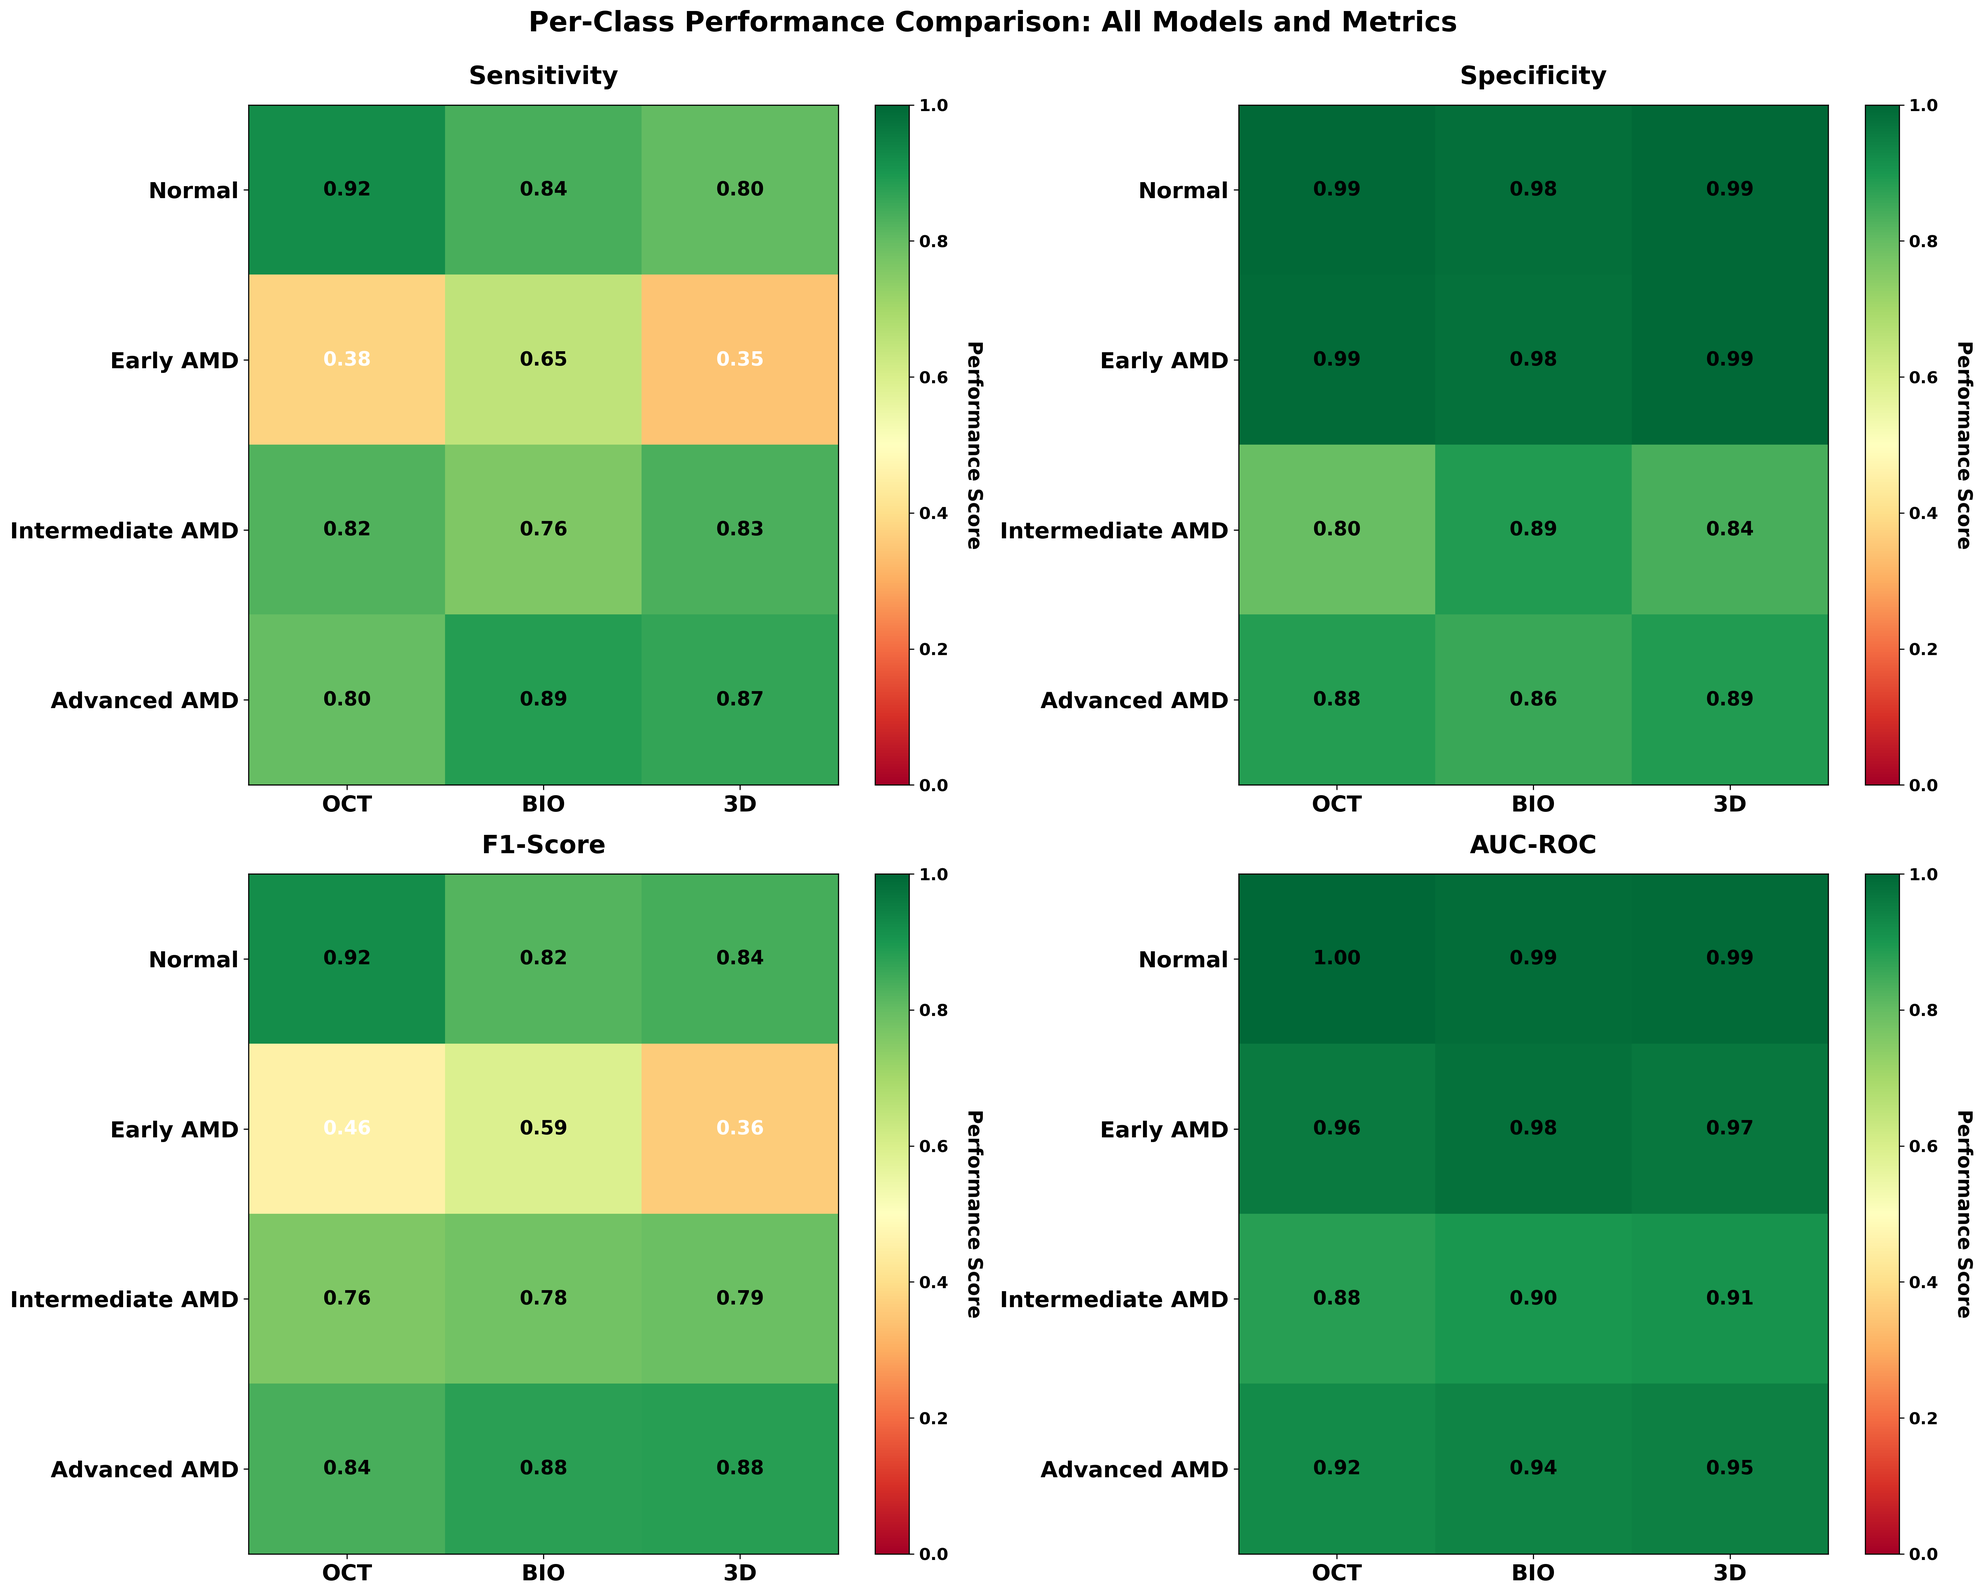
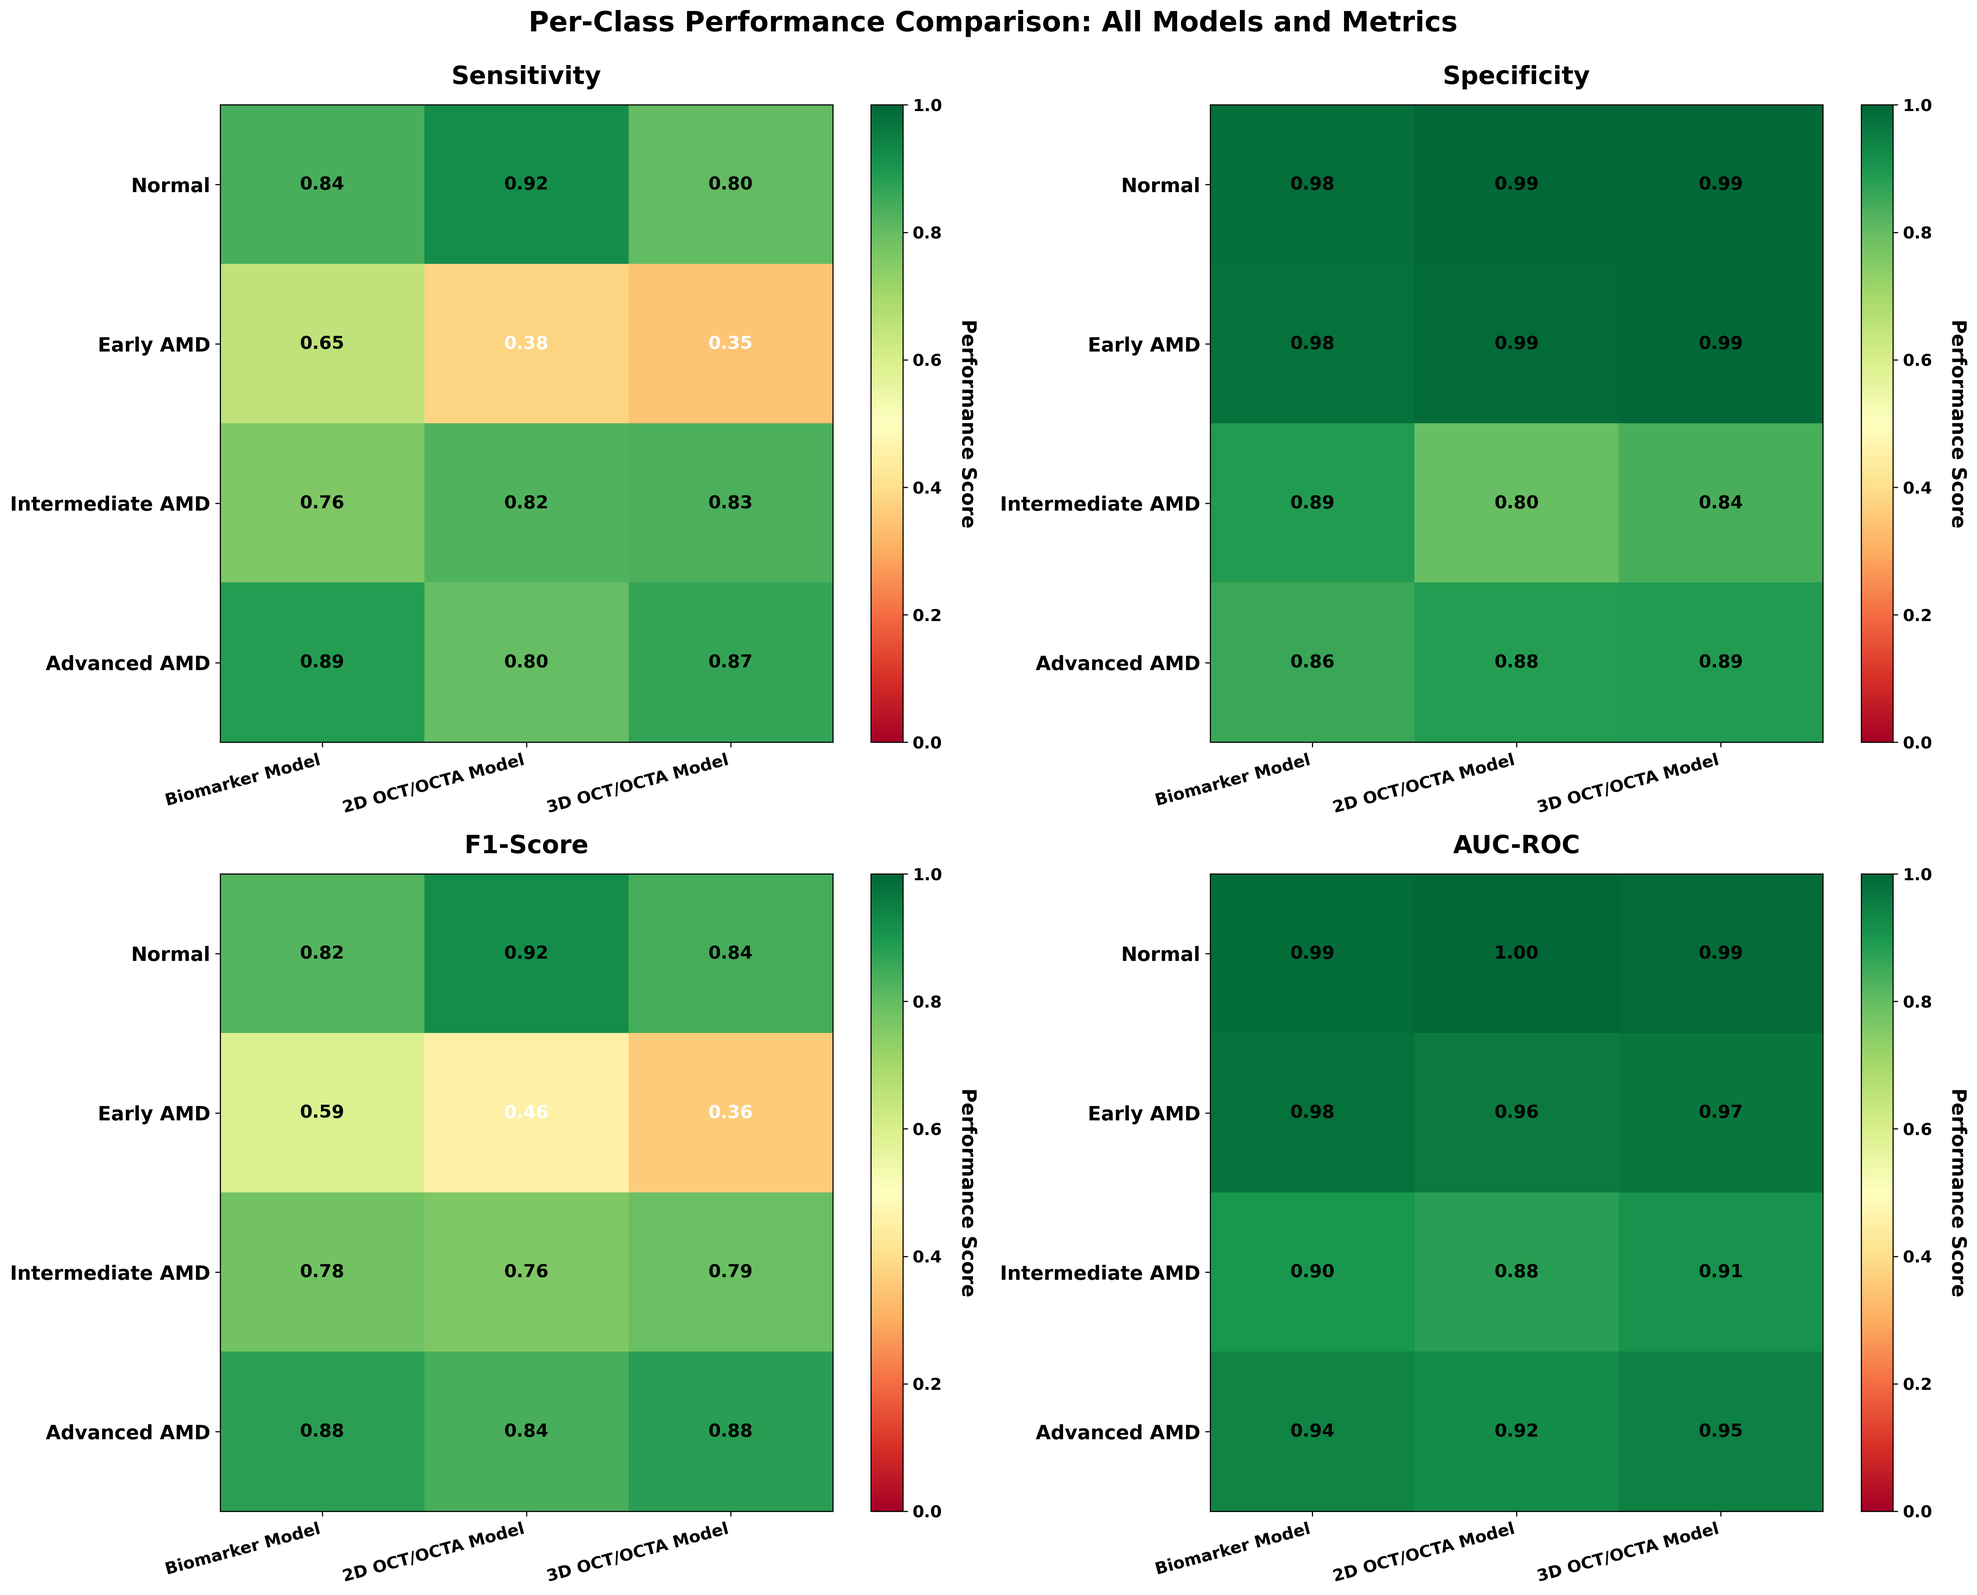
feat: Update analysis results and visualizations for improved clarity and consistency

diff --git a/enhanced_visualizations_improved.py b/enhanced_visualizations_improved.py
@@ -21,6 +21,13 @@ class EnhancedThreeModelVisualizer:
         self.class_names = ['Normal', 'Early AMD', 'Intermediate AMD', 'Advanced AMD']
         self.metrics = ['sensitivity', 'specificity', 'f1_score', 'auc_roc']
         self.metric_names = ['Sensitivity', 'Specificity', 'F1-Score', 'AUC-ROC']
+        # Model order: BIO -> OCT -> 3D with display names
+        self.model_order = ['bio', 'oct', '3d']
+        self.model_display_names = {
+            'bio': 'Biomarker Model',
+            'oct': '2D OCT/OCTA Model',
+            '3d': '3D OCT/OCTA Model'
+        }
         self.model_colors = {'oct': '#1f77b4', 'bio': '#ff7f0e', '3d': '#2ca02c'}
         
         # Set up matplotlib for better quality
@@ -41,10 +48,11 @@ class EnhancedThreeModelVisualizer:
         with open(results_file, 'r') as f:
             self.results = json.load(f)
         
-        self.models = list(self.results.keys())
+        # Use fixed model order
+        self.models = [m for m in self.model_order if m in self.results]
         self.output_dir = latest_dir
         
-        print(f"✅ Loaded results for models: {[m.upper() for m in self.models]}")
+        print(f"✅ Loaded results for models: {[self.model_display_names.get(m, m.upper()) for m in self.models]}")
         print(f"📁 Output directory: {self.output_dir}\n")
     
     def format_value(self, mean, std=None):
@@ -96,7 +104,7 @@ class EnhancedThreeModelVisualizer:
         for idx, (metric, title) in enumerate(zip(self.metrics, self.metric_names)):
             ax = axes[idx // 2, idx % 2]
             
-            # Collect data
+            # Collect data in model order
             model_names = []
             means = []
             stds = []
@@ -104,7 +112,7 @@ class EnhancedThreeModelVisualizer:
             
             for model in self.models:
                 if model in self.results and metric in self.results[model] and 'Overall' in self.results[model][metric]:
-                    model_names.append(model.upper())
+                    model_names.append(self.model_display_names.get(model, model.upper()))
                     stats_data = self.results[model][metric]['Overall']
                     means.append(stats_data['mean'])
                     stds.append(stats_data['std'])
@@ -119,7 +127,7 @@ class EnhancedThreeModelVisualizer:
                 ax.set_title(f'{title}', fontsize=18, fontweight='bold', pad=15)
                 ax.set_ylabel(f'{title} Score', fontsize=16, fontweight='bold')
                 ax.set_xticks(x_pos)
-                ax.set_xticklabels(model_names, fontsize=16, fontweight='bold')
+                ax.set_xticklabels(model_names, fontsize=14, fontweight='bold', rotation=0)
                 ax.tick_params(axis='y', labelsize=14)
                 
                 # Add value labels on bars with 2 significant digits (NO BACKGROUND BOX)
@@ -198,11 +206,12 @@ class EnhancedThreeModelVisualizer:
             # Create heatmap with better spacing
             im = ax.imshow(data_matrix, cmap='RdYlGn', aspect='auto', vmin=0, vmax=1)
             
-            # Set ticks and labels with larger fonts
+            # Set ticks and labels with larger fonts using proper model names
             ax.set_xticks(range(len(self.models)))
-            ax.set_xticklabels([m.upper() for m in self.models], fontweight='bold', fontsize=16)
+            ax.set_xticklabels([self.model_display_names.get(m, m.upper()) for m in self.models], 
+                               fontweight='bold', fontsize=12, rotation=15, ha='right')
             ax.set_yticks(range(len(self.class_names)))
-            ax.set_yticklabels(self.class_names, fontsize=16, fontweight='bold')
+            ax.set_yticklabels(self.class_names, fontsize=14, fontweight='bold')
             ax.set_title(f'{metric_name}', fontsize=18, fontweight='bold', pad=15)
             
             # Add text annotations with 2 significant digits
@@ -213,7 +222,7 @@ class EnhancedThreeModelVisualizer:
                         value_text = f"{data_matrix[i][j]:.2f}"
                         ax.text(j, i, value_text,
                                ha="center", va="center", color=text_color, 
-                               fontsize=14, fontweight='bold')
+                               fontsize=13, fontweight='bold')
             
             # Add colorbar with larger font
             cbar = plt.colorbar(im, ax=ax)
@@ -241,9 +250,9 @@ class EnhancedThreeModelVisualizer:
             for model in self.models:
                 if metric in self.results[model] and 'Overall' in self.results[model][metric]:
                     stats_data = self.results[model][metric]['Overall']
-                    row[f'{model.upper()}'] = self.format_value(stats_data['mean'], stats_data['std'])
+                    row[self.model_display_names.get(model, model.upper())] = self.format_value(stats_data['mean'], stats_data['std'])
                 else:
-                    row[f'{model.upper()}'] = 'N/A'
+                    row[self.model_display_names.get(model, model.upper())] = 'N/A'
             table_data.append(row)
         
         df_overall = pd.DataFrame(table_data)
@@ -271,22 +280,22 @@ class EnhancedThreeModelVisualizer:
                     if (metric in self.results[model] and 
                         class_name in self.results[model][metric]):
                         stats_data = self.results[model][metric][class_name]
-                        row[f'{model.upper()}'] = self.format_value(stats_data['mean'], stats_data['std'])
+                        row[self.model_display_names.get(model, model.upper())] = self.format_value(stats_data['mean'], stats_data['std'])
                     else:
-                        row[f'{model.upper()}'] = 'N/A'
+                        row[self.model_display_names.get(model, model.upper())] = 'N/A'
                 class_data.append(row)
             
             df_class = pd.DataFrame(class_data)
             print(df_class.to_string(index=False))
             
-            # Track for comprehensive file
+            # Track for comprehensive file - use ordered model display names
             for _, row in df_class.iterrows():
                 all_class_data.append({
                     'Class': class_name,
                     'Metric': row['Metric'],
-                    'OCT': row.get('OCT', 'N/A'),
-                    'BIO': row.get('BIO', 'N/A'),
-                    '3D': row.get('3D', 'N/A')
+                    'Biomarker Model': row.get('Biomarker Model', 'N/A'),
+                    '2D OCT/OCTA Model': row.get('2D OCT/OCTA Model', 'N/A'),
+                    '3D OCT/OCTA Model': row.get('3D OCT/OCTA Model', 'N/A')
                 })
         
         # Save comprehensive class data
@@ -311,7 +320,7 @@ class EnhancedThreeModelVisualizer:
                     
                     sig_data.append({
                         'Metric': metric_name,
-                        'Comparison': f'{model1.upper()} vs {model2.upper()}',
+                        'Comparison': f'{self.model_display_names.get(model1, model1.upper())} vs {self.model_display_names.get(model2, model2.upper())}',
                         'P-Value': f'{p_value:.3f}',
                         'Significance': significance,
                         'Difference': f'{diff:.2f}'

diff --git a/create_analysis_index.py b/create_analysis_index.py
@@ -15,7 +15,7 @@ def create_index():
 
 **Analysis Date**: 2025-11-21  
 **Method**: 5-Fold Cross-Validation  
-**Models**: OCT, BIO, 3D  
+**Models**: Biomarker Model, 2D OCT/OCTA Model, 3D OCT/OCTA Model  
 **Format**: 2 Significant Digits  
 **Directory**: `analysis_results/20251121_161006/`
 
@@ -54,7 +54,7 @@ def create_index():
 ### Enhanced Figures (Recommended)
 | File | Description | Use Case |
 |------|-------------|----------|
-| `enhanced_overall_comparison.png` | 4 metrics with p-values (large fonts, 20×16) | Presentations, publications |
+| `enhanced_overall_comparison.png` | 4 metrics with p-values (large fonts, 20×28) | Presentations, publications |
 | `enhanced_perclass_heatmaps.png` | Heatmaps for all metrics and classes | Per-class analysis |
 
 ### Original Figures (Reference)
@@ -72,8 +72,8 @@ def create_index():
 ### Enhanced Tables (Recommended)
 | File | Description | Format |
 |------|-------------|--------|
-| `enhanced_overall_summary.csv` | Overall metrics (2 sig digits) | Metric, OCT, BIO, 3D |
-| `enhanced_perclass_summary.csv` | Per-class metrics (2 sig digits) | Class, Metric, OCT, BIO, 3D |
+| `enhanced_overall_summary.csv` | Overall metrics (2 sig digits) | Metric, Biomarker, 2D OCT/OCTA, 3D OCT/OCTA |
+| `enhanced_perclass_summary.csv` | Per-class metrics (2 sig digits) | Class, Metric, Biomarker, 2D OCT/OCTA, 3D OCT/OCTA |
 | `enhanced_statistical_tests.csv` | P-values and significance | Metric, Comparison, P-Value, Sig |
 
 ### Original Tables (Reference)
@@ -122,25 +122,25 @@ def create_index():
 ## 📊 QUICK REFERENCE - ALL VALUES (2 Sig Digits)
 
 ### Overall Performance
-| Metric | OCT | BIO | 3D |
-|--------|-----|-----|-----|
-| **Sensitivity** | 0.73±0.07 | 0.78±0.05 | 0.71±0.14 |
-| **Specificity** | 0.92±0.01 | 0.93±0.01 | 0.93±0.03 |
-| **F1-Score** | 0.74±0.06 | 0.77±0.05 | 0.72±0.14 |
-| **AUC-ROC** | 0.94±0.02 | 0.95±0.01 | 0.95±0.02 |
+| Metric | Biomarker Model | 2D OCT/OCTA Model | 3D OCT/OCTA Model |
+|--------|-----------------|-------------------|-------------------|
+| **Sensitivity** | 0.78±0.05 | 0.73±0.07 | 0.71±0.14 |
+| **Specificity** | 0.93±0.01 | 0.92±0.01 | 0.93±0.03 |
+| **F1-Score** | 0.77±0.05 | 0.74±0.06 | 0.72±0.14 |
+| **AUC-ROC** | 0.95±0.01 | 0.94±0.02 | 0.95±0.02 |
 
 ### Critical Finding - Early AMD Detection
 | Model | Sensitivity |
 |-------|-------------|
-| **BIO** | **0.65±0.17** ✓✓ BEST |
-| OCT | 0.38±0.20 (44% worse) |
-| 3D | 0.35±0.35 (46% worse) |
+| **Biomarker Model** | **0.65±0.17** ✓✓ BEST |
+| 2D OCT/OCTA Model | 0.38±0.20 (44% worse) |
+| 3D OCT/OCTA Model | 0.35±0.35 (46% worse) |
 
 ### Statistical Significance
 | Comparison | P-Value | Result |
 |-----------|---------|--------|
-| BIO vs OCT (Sensitivity) | 0.040 | * Significant |
-| BIO vs OCT (AUC-ROC) | 0.016 | * Significant |
+| Biomarker vs 2D OCT/OCTA (Sensitivity) | 0.040 | * Significant |
+| Biomarker vs 2D OCT/OCTA (AUC-ROC) | 0.016 | * Significant |
 | All other comparisons | >0.05 | Not significant |
 
 ---
@@ -150,7 +150,7 @@ def create_index():
 ### For Conference Presentation
 1. Use: `enhanced_overall_comparison.png`
 2. Use: `enhanced_perclass_heatmaps.png`
-3. Mention: Early AMD detection advantage (BIO: 0.65 vs OCT: 0.38)
+3. Mention: Early AMD detection advantage (Biomarker: 0.65 vs 2D OCT/OCTA: 0.38)
 4. Highlight: Statistical significance (p=0.040*, p=0.016*)
 
 ### For Journal Publication
@@ -162,8 +162,8 @@ def create_index():
 ### For Clinical Implementation
 1. Read: `THREE_MODEL_COMPREHENSIVE_REPORT.txt`
 2. Follow: Recommended Clinical Workflow section
-3. Focus: Early AMD detection advantage of BIO model
-4. Action: Deploy BIO as primary screening tool
+3. Focus: Early AMD detection advantage of Biomarker model
+4. Action: Deploy Biomarker model as primary screening tool
 
 ### For Data Scientists/Researchers
 1. Raw data: `raw_analysis_results.json`

diff --git a/analysis_results/20251121_161006/00_INDEX.md b/analysis_results/20251121_161006/00_INDEX.md
@@ -2,7 +2,7 @@
 
 **Analysis Date**: 2025-11-21  
 **Method**: 5-Fold Cross-Validation  
-**Models**: OCT, BIO, 3D  
+**Models**: Biomarker Model, 2D OCT/OCTA Model, 3D OCT/OCTA Model  
 **Format**: 2 Significant Digits  
 **Directory**: `analysis_results/20251121_161006/`
 
@@ -41,7 +41,7 @@
 ### Enhanced Figures (Recommended)
 | File | Description | Use Case |
 |------|-------------|----------|
-| `enhanced_overall_comparison.png` | 4 metrics with p-values (large fonts, 20×16) | Presentations, publications |
+| `enhanced_overall_comparison.png` | 4 metrics with p-values (large fonts, 20×28) | Presentations, publications |
 | `enhanced_perclass_heatmaps.png` | Heatmaps for all metrics and classes | Per-class analysis |
 
 ### Original Figures (Reference)
@@ -59,8 +59,8 @@
 ### Enhanced Tables (Recommended)
 | File | Description | Format |
 |------|-------------|--------|
-| `enhanced_overall_summary.csv` | Overall metrics (2 sig digits) | Metric, OCT, BIO, 3D |
-| `enhanced_perclass_summary.csv` | Per-class metrics (2 sig digits) | Class, Metric, OCT, BIO, 3D |
+| `enhanced_overall_summary.csv` | Overall metrics (2 sig digits) | Metric, Biomarker, 2D OCT/OCTA, 3D OCT/OCTA |
+| `enhanced_perclass_summary.csv` | Per-class metrics (2 sig digits) | Class, Metric, Biomarker, 2D OCT/OCTA, 3D OCT/OCTA |
 | `enhanced_statistical_tests.csv` | P-values and significance | Metric, Comparison, P-Value, Sig |
 
 ### Original Tables (Reference)
@@ -109,25 +109,25 @@
 ## 📊 QUICK REFERENCE - ALL VALUES (2 Sig Digits)
 
 ### Overall Performance
-| Metric | OCT | BIO | 3D |
-|--------|-----|-----|-----|
-| **Sensitivity** | 0.73±0.07 | 0.78±0.05 | 0.71±0.14 |
-| **Specificity** | 0.92±0.01 | 0.93±0.01 | 0.93±0.03 |
-| **F1-Score** | 0.74±0.06 | 0.77±0.05 | 0.72±0.14 |
-| **AUC-ROC** | 0.94±0.02 | 0.95±0.01 | 0.95±0.02 |
+| Metric | Biomarker Model | 2D OCT/OCTA Model | 3D OCT/OCTA Model |
+|--------|-----------------|-------------------|-------------------|
+| **Sensitivity** | 0.78±0.05 | 0.73±0.07 | 0.71±0.14 |
+| **Specificity** | 0.93±0.01 | 0.92±0.01 | 0.93±0.03 |
+| **F1-Score** | 0.77±0.05 | 0.74±0.06 | 0.72±0.14 |
+| **AUC-ROC** | 0.95±0.01 | 0.94±0.02 | 0.95±0.02 |
 
 ### Critical Finding - Early AMD Detection
 | Model | Sensitivity |
 |-------|-------------|
-| **BIO** | **0.65±0.17** ✓✓ BEST |
-| OCT | 0.38±0.20 (44% worse) |
-| 3D | 0.35±0.35 (46% worse) |
+| **Biomarker Model** | **0.65±0.17** ✓✓ BEST |
+| 2D OCT/OCTA Model | 0.38±0.20 (44% worse) |
+| 3D OCT/OCTA Model | 0.35±0.35 (46% worse) |
 
 ### Statistical Significance
 | Comparison | P-Value | Result |
 |-----------|---------|--------|
-| BIO vs OCT (Sensitivity) | 0.040 | * Significant |
-| BIO vs OCT (AUC-ROC) | 0.016 | * Significant |
+| Biomarker vs 2D OCT/OCTA (Sensitivity) | 0.040 | * Significant |
+| Biomarker vs 2D OCT/OCTA (AUC-ROC) | 0.016 | * Significant |
 | All other comparisons | >0.05 | Not significant |
 
 ---
@@ -137,7 +137,7 @@
 ### For Conference Presentation
 1. Use: `enhanced_overall_comparison.png`
 2. Use: `enhanced_perclass_heatmaps.png`
-3. Mention: Early AMD detection advantage (BIO: 0.65 vs OCT: 0.38)
+3. Mention: Early AMD detection advantage (Biomarker: 0.65 vs 2D OCT/OCTA: 0.38)
 4. Highlight: Statistical significance (p=0.040*, p=0.016*)
 
 ### For Journal Publication
@@ -149,8 +149,8 @@
 ### For Clinical Implementation
 1. Read: `THREE_MODEL_COMPREHENSIVE_REPORT.txt`
 2. Follow: Recommended Clinical Workflow section
-3. Focus: Early AMD detection advantage of BIO model
-4. Action: Deploy BIO as primary screening tool
+3. Focus: Early AMD detection advantage of Biomarker model
+4. Action: Deploy Biomarker model as primary screening tool
 
 ### For Data Scientists/Researchers
 1. Raw data: `raw_analysis_results.json`
